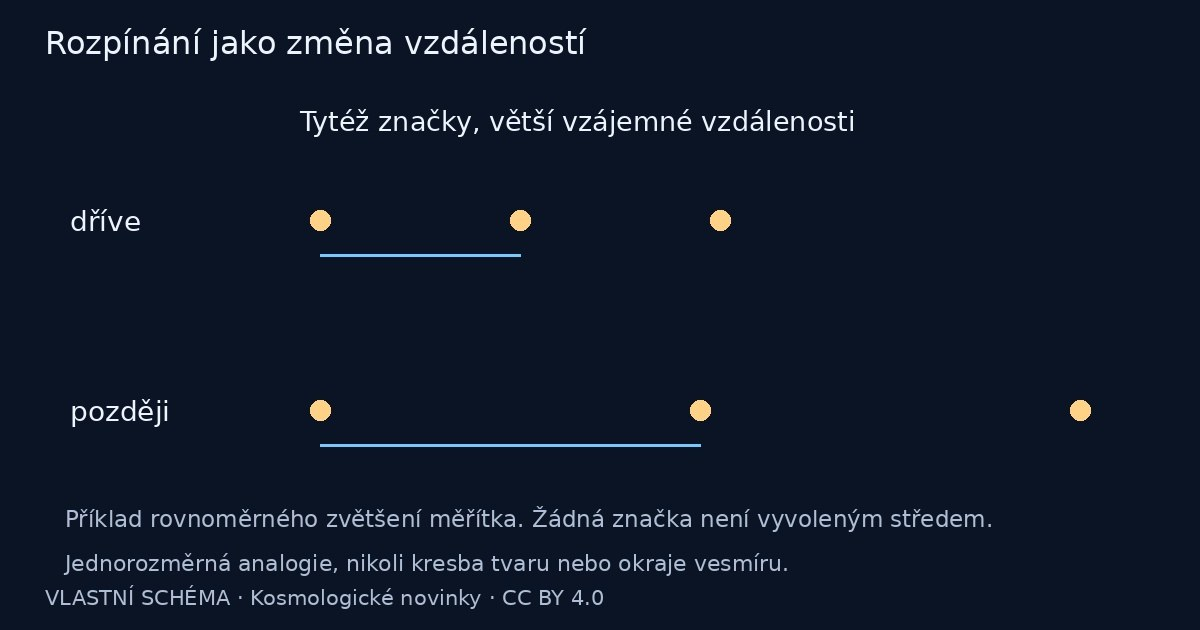
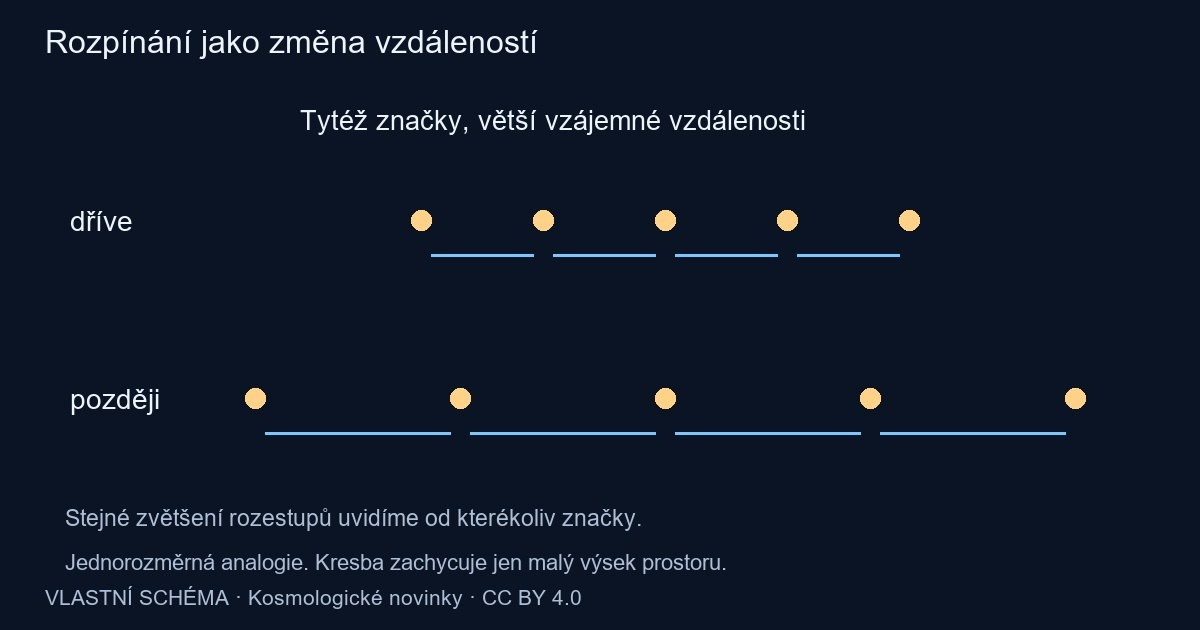
Add files via upload

diff --git a/tools/kosmopedie_batch7_diagrams.py b/tools/kosmopedie_batch7_diagrams.py
@@ -1,12 +1,12 @@
 """Original historical-method illustrations; no portraits or reproduced historical data."""
 import math
-from kosmopedie_diagrams import Canvas,WHITE,MUTED,BLUE,GOLD,VIOLET,GREEN,GRID
+from kosmopedie_diagrams import Canvas,font,WHITE,MUTED,BLUE,GOLD,VIOLET,GREEN,GRID
 
 def diagram(entry):
  c=Canvas(entry['title']);k=entry['diagram']
  if k=='edu-b7-timeline':
-  for i,(date,name,what,col) in enumerate([('1912','Leavittová','Perioda cefeidy → svítivost',BLUE),('1927','Lemaître','Rozpínání: teorie + pozorování',GOLD),('1929','Hubble','Vzdálenosti + spektrální posuvy',VIOLET),('1970 a dále','Rubinová a Ford','Rotace galaxií → chybějící hmota',GREEN)]):
-   y=100+110*i;c.box(60,y,1140,y+90,col);c.text(80,y+25,date,col,25);c.text(290,y+25,name,WHITE,26);c.text(610,y+26,what,WHITE,24,maxwidth=510)
+  for i,(date,name,what,col) in enumerate([('1912','Leavittová','Cefeidy s delší periodou mají vyšší svítivost.',BLUE),('1927','Lemaître','Ze vzdáleností a rychlostí galaxií odhadl tempo rozpínání.',GOLD),('1929','Hubble','Vzdálenější galaxie se v průměru vzdalují rychleji.',VIOLET),('1970 a dále','Rubinová a Ford','Rychlý oběh hvězd na okrajích galaxií naznačuje temnou hmotu.',GREEN)]):
+   y=100+110*i;c.box(60,y,1140,y+90,col);c.text(80,y+25,date,col,25);c.text(290,y+25,name,WHITE,26);c.paragraph(525,y+(26 if c.d.textlength(what,font=font(24))<=595 else 10),what,595,WHITE,24)
   c.text(60,550,'Vybrané milníky; navazují na práci dalších pozorovatelů, teoretiků a týmů.',MUTED,21,maxwidth=1080)
  elif k=='edu-b7-leavitt':
   for j,(x,period,label,col) in enumerate([(80,90,'kratší perioda',BLUE),(660,180,'delší perioda',GOLD)]):
@@ -17,23 +17,26 @@ def diagram(entry):
    c.text(x+25,410,'nižší svítivost' if j==0 else 'vyšší svítivost',WHITE,26)
   c.text(65,530,'Porovnání cefeid stejného typu. Křivky jsou názorné, ne původní měření.',MUTED,23,maxwidth=1070)
  elif k=='edu-b7-distance':
-  for i,(title,body,col) in enumerate([('Změříme periodu','Jak dlouho trvá cyklus jasnosti?',BLUE),('Určíme svítivost','Pomocí kalibrovaného vztahu.',GOLD),('Odvodíme vzdálenost','Porovnáme ji se zachyceným světlem.',VIOLET)]):
+  for i,(title,body,col) in enumerate([('Změříme periodu','Jak dlouho trvá cyklus jasnosti?',BLUE),('Určíme svítivost','Delší perioda značí větší svítivost.',GOLD),('Odvodíme vzdálenost','Porovnáme svítivost s jasností na obloze.',VIOLET)]):
    x=55+385*i;c.box(x,160,x+320,450,col);c.paragraph(x+20,185,title,280,col,29);c.paragraph(x+20,290,body,280,WHITE,26)
    if i<2:c.arrow(x+325,305,x+375,305,MUTED)
-  c.text(65,510,'Kalibrace navazuje na vzdálenosti známé jinou metodou.',WHITE,25)
+  c.text(65,510,'Vztah kalibrujeme na cefeidách se známou vzdáleností.',WHITE,25)
   c.text(65,550,'Při praktickém měření se opravuje i vliv prachu a vlastností hvězdy.',MUTED,22,maxwidth=1070)
  elif k=='edu-b7-lemaitre':
-  for y,width,title in [(220,200,'dříve'),(410,380,'později')]:
-   c.text(70,y-15,title,WHITE,28)
-   for j in range(3):c.circle(320+j*width,y,10,GOLD,GOLD,1)
-   c.line([(320,y+35),(320+width,y+35)],BLUE,3)
+  for y,spacing,label in [(220,122,'dříve'),(398,205,'později')]:
+   c.text(70,y-15,label,WHITE,28)
+   xs=[665+j*spacing for j in (-2,-1,0,1,2)]
+   for j,x in enumerate(xs):
+    c.circle(x,y,10,GOLD,GOLD,1)
+    if j:
+     c.line([(xs[j-1]+10,y+35),(x-10,y+35)],BLUE,3)
   c.text(300,105,'Tytéž značky, větší vzájemné vzdálenosti',WHITE,27)
-  c.text(65,505,'Příklad rovnoměrného zvětšení měřítka. Žádná značka není vyvoleným středem.',MUTED,23,maxwidth=1080)
-  c.text(65,550,'Jednorozměrná analogie, nikoli kresba tvaru nebo okraje vesmíru.',MUTED,22,maxwidth=1080)
+  c.text(65,505,'Stejné zvětšení rozestupů uvidíme od kterékoliv značky.',MUTED,23)
+  c.text(65,550,'Jednorozměrná analogie. Kresba zachycuje jen malý výsek prostoru.',MUTED,22)
  elif k=='edu-b7-hubble':
   c.arrow(140,470,1080,470,MUTED);c.arrow(140,470,140,130,MUTED)
   c.text(160,100,'rychlost vzdalování',WHITE,25);c.text(800,500,'vzdálenost',WHITE,25)
-  c.line([(170,450),(1000,170)],BLUE,4)
+  c.line([(140,470),(1000,170)],BLUE,4)
   for x,y in [(250,432),(370,365),(505,358),(630,278),(780,270),(930,190)]:c.circle(x,y,7,GOLD,GOLD,1)
   c.text(670,160,'celkový trend',BLUE,25)
   c.text(65,550,'Smyšlené body ilustrují vztah a rozptyl; nejde o Hubbleova původní data.',MUTED,22,maxwidth=1080)
@@ -50,8 +53,19 @@ def diagram(entry):
   c.text(160,100,'oběžná rychlost',WHITE,25);c.text(670,505,'vzdálenost od středu',WHITE,25)
   c.line([(140+i,470-240*(1-math.exp(-i/100))) for i in range(880)],GOLD,4)
   c.line([(140+i,470-240*(1-math.exp(-i/100))*(1 if i<200 else math.sqrt(200/i))) for i in range(880)],BLUE,4)
-  c.text(570,190,'rozlehlé hmotné halo',GOLD,25)
-  c.text(520,375,'hmotnost převážně v centrální oblasti',BLUE,23,maxwidth=550)
+  c.text(570,190,'model s halem temné hmoty',GOLD,25)
+  c.text(520,375,'model s hmotou soustředěnou u středu',BLUE,23,maxwidth=550)
   c.text(65,550,'Dva názorné modelové průběhy bez číselné stupnice; nejde o naměřené křivky.',MUTED,21,maxwidth=1080)
+ elif k=='edu-b7-supernova-expansion':
+  c.text(65,90,'Porovnání vzdálených supernov typu Ia při stejném rudém posuvu',WHITE,25)
+  for x,label,body,col,strength in [
+      (65,'Předpověď modelu','Bez zrychlování by supernovy v uvažovaném modelu byly jasnější.',BLUE,320),
+      (630,'Pozorování','Supernovy byly slabší. To ukazovalo na větší vzdálenost.',GOLD,220)]:
+   c.box(x,155,x+500,430,col)
+   c.text(x+24,178,label,col,29)
+   c.paragraph(x+24,235,body,450,WHITE,25)
+   c.d.rounded_rectangle((x+24,357,x+24+strength,377),radius=9,fill=col)
+  c.text(65,467,'Slabší jas po kalibraci odpovídal zrychlování rozpínání.',WHITE,24)
+  c.text(65,530,'Délky pruhů znázorňují relativní jas. Hodnoty jsou pouze názorné.',MUTED,22)
  else:raise ValueError(k)
  return c.finish()
